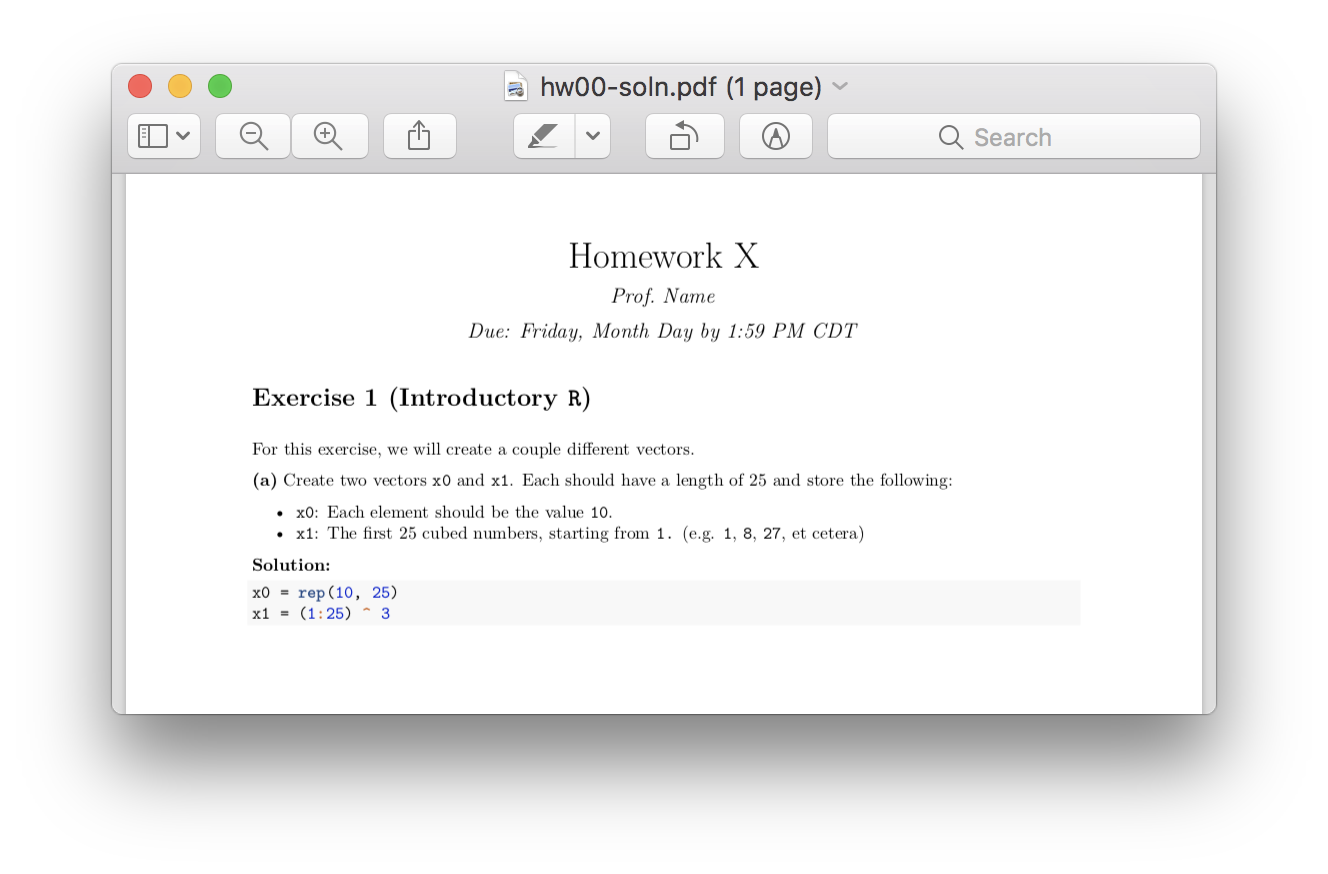
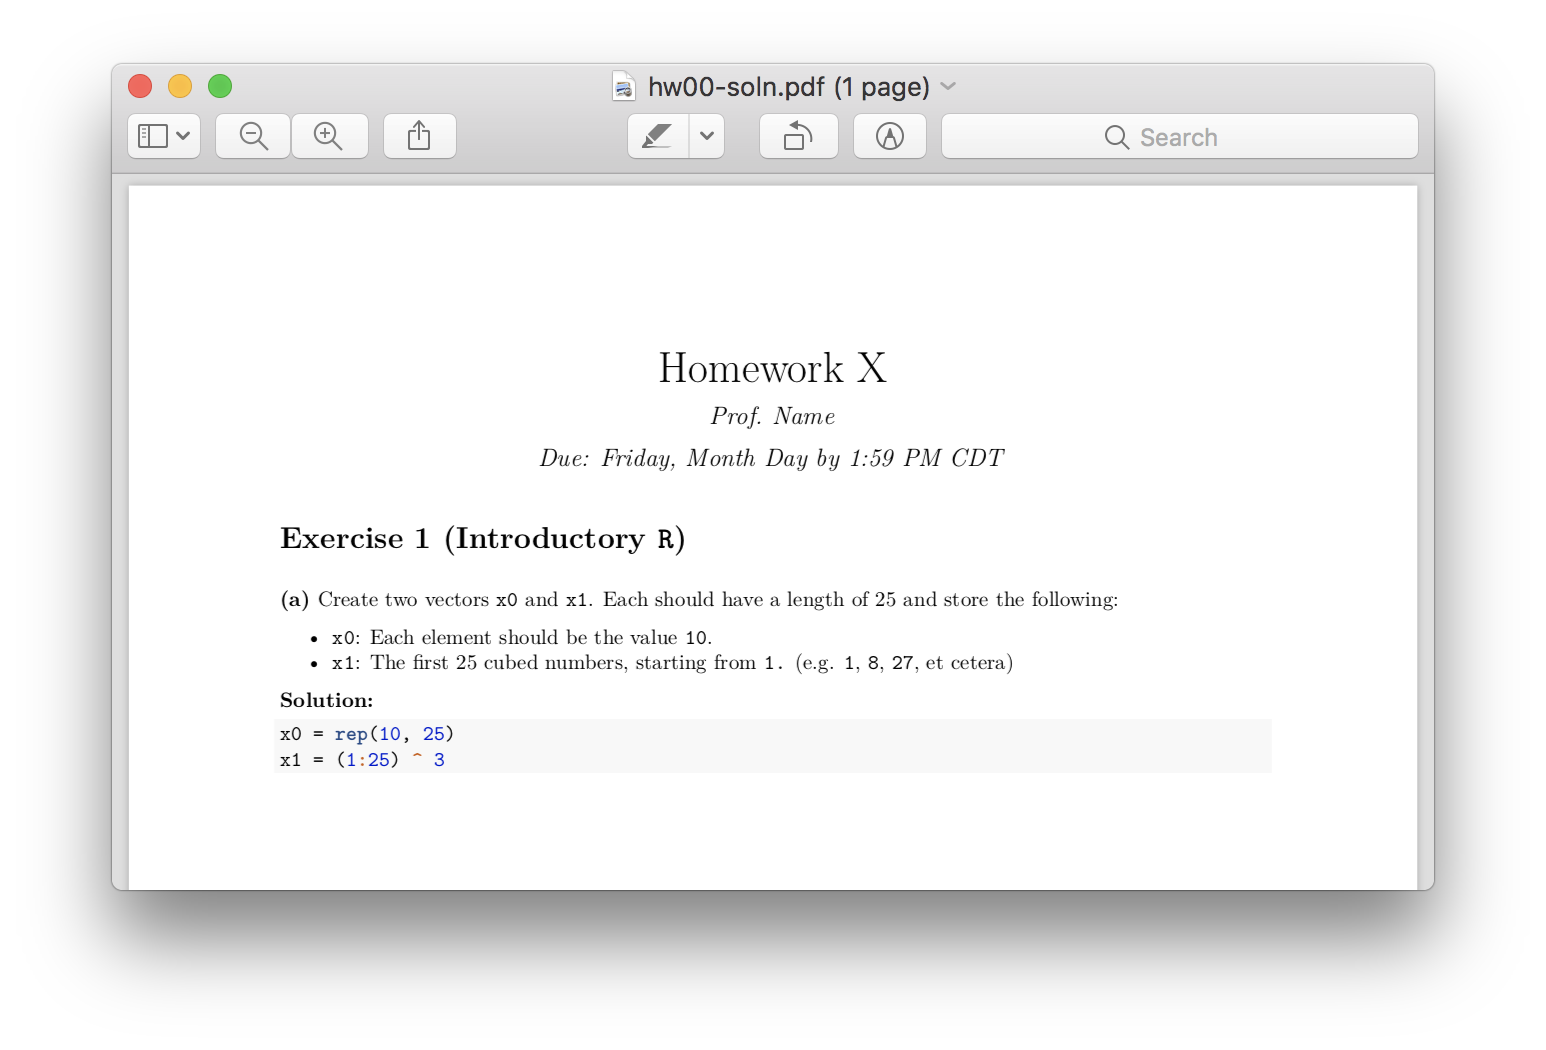
README Image fix

Changed region(s): [[0.0617, 0.0618, 0.9262, 0.8959], [0.1852, 0.4943, 0.741, 0.7414], [0.1852, 0.278, 0.6483, 0.4634]]

diff --git a/README.md b/README.md
@@ -1,4 +1,4 @@
-# assignr [![Build Status](https://travis-ci.org/coatless/assignr.svg)](https://travis-ci.org/coatless/assignr) [![Package-License](http://img.shields.io/badge/license-GPL--3-brightgreen.svg?style=flat)](http://www.gnu.org/licenses/gpl-3.0.html) [![CRAN](http://www.r-pkg.org/badges/version/assignr)](https://cran.r-project.org/package=assignr) [![Downloads](http://cranlogs.r-pkg.org/badges/assignr?color=brightgreen)](http://www.r-pkg.org/pkg/assignr)
+# assignr [![Build Status](https://travis-ci.org/coatless/assignr.svg)](https://travis-ci.org/coatless/assignr) [![Package-License](http://img.shields.io/badge/license-GPL%20(%3E=2)-brightgreen.svg?style=flat)](http://www.gnu.org/licenses/gpl-2.0.html) [![CRAN](http://www.r-pkg.org/badges/version/assignr)](https://cran.r-project.org/package=assignr) [![Downloads](http://cranlogs.r-pkg.org/badges/assignr?color=brightgreen)](http://www.r-pkg.org/pkg/assignr)
 
 Tools for Educators Writing Assignments in _RMarkdown_  
 
@@ -140,14 +140,14 @@ length of 25 and store the following:
 - `x1`: The first 25 cubed numbers, starting from `1.` (e.g. `1`, `8`, `27`, et cetera)
 ````
 
-![PDF Rendering of `hw00-assign.Rmd`](https://coatless.github.io/assignr/assignr-assign-pdf.png)
+![PDF Rendering of `hw00-assign.Rmd`](https://github.com/coatless/assignr/blob/master/docs/assignr-assign-pdf.png)
 
 ### Solutions 
 
 Lastly, we have the assignment rmarkdown file that contains the solutions
 and their respective output.
 
-```
+````
 ---
 title: 'Homework X'
 author: "Prof. Name"
@@ -160,16 +160,22 @@ output:
 
 # Exercise 1 (Introductory `R`)
 
-For this exercise, we will create a couple different vectors.
 
 **(a)** Create two vectors `x0` and `x1`. Each should have a
 length of 25 and store the following:
 
 - `x0`: Each element should be the value `10`.
 - `x1`: The first 25 cubed numbers, starting from `1.` (e.g. `1`, `8`, `27`, et cetera)
-```
 
-![PDF Rendering of `hw00-soln.Rmd`](https://coatless.github.io/assignr/assignr-soln-pdf.png)
+**Solution:**
+
+```{r, solution = TRUE}
+x0 = rep(10, 25)
+x1 = (1:25) ^ 3
+```
+````
+
+![PDF Rendering of `hw00-soln.Rmd`](https://github.com/coatless/assignr/blob/master/docs/assignr-soln-pdf.png)
 
 ## Authors
 
